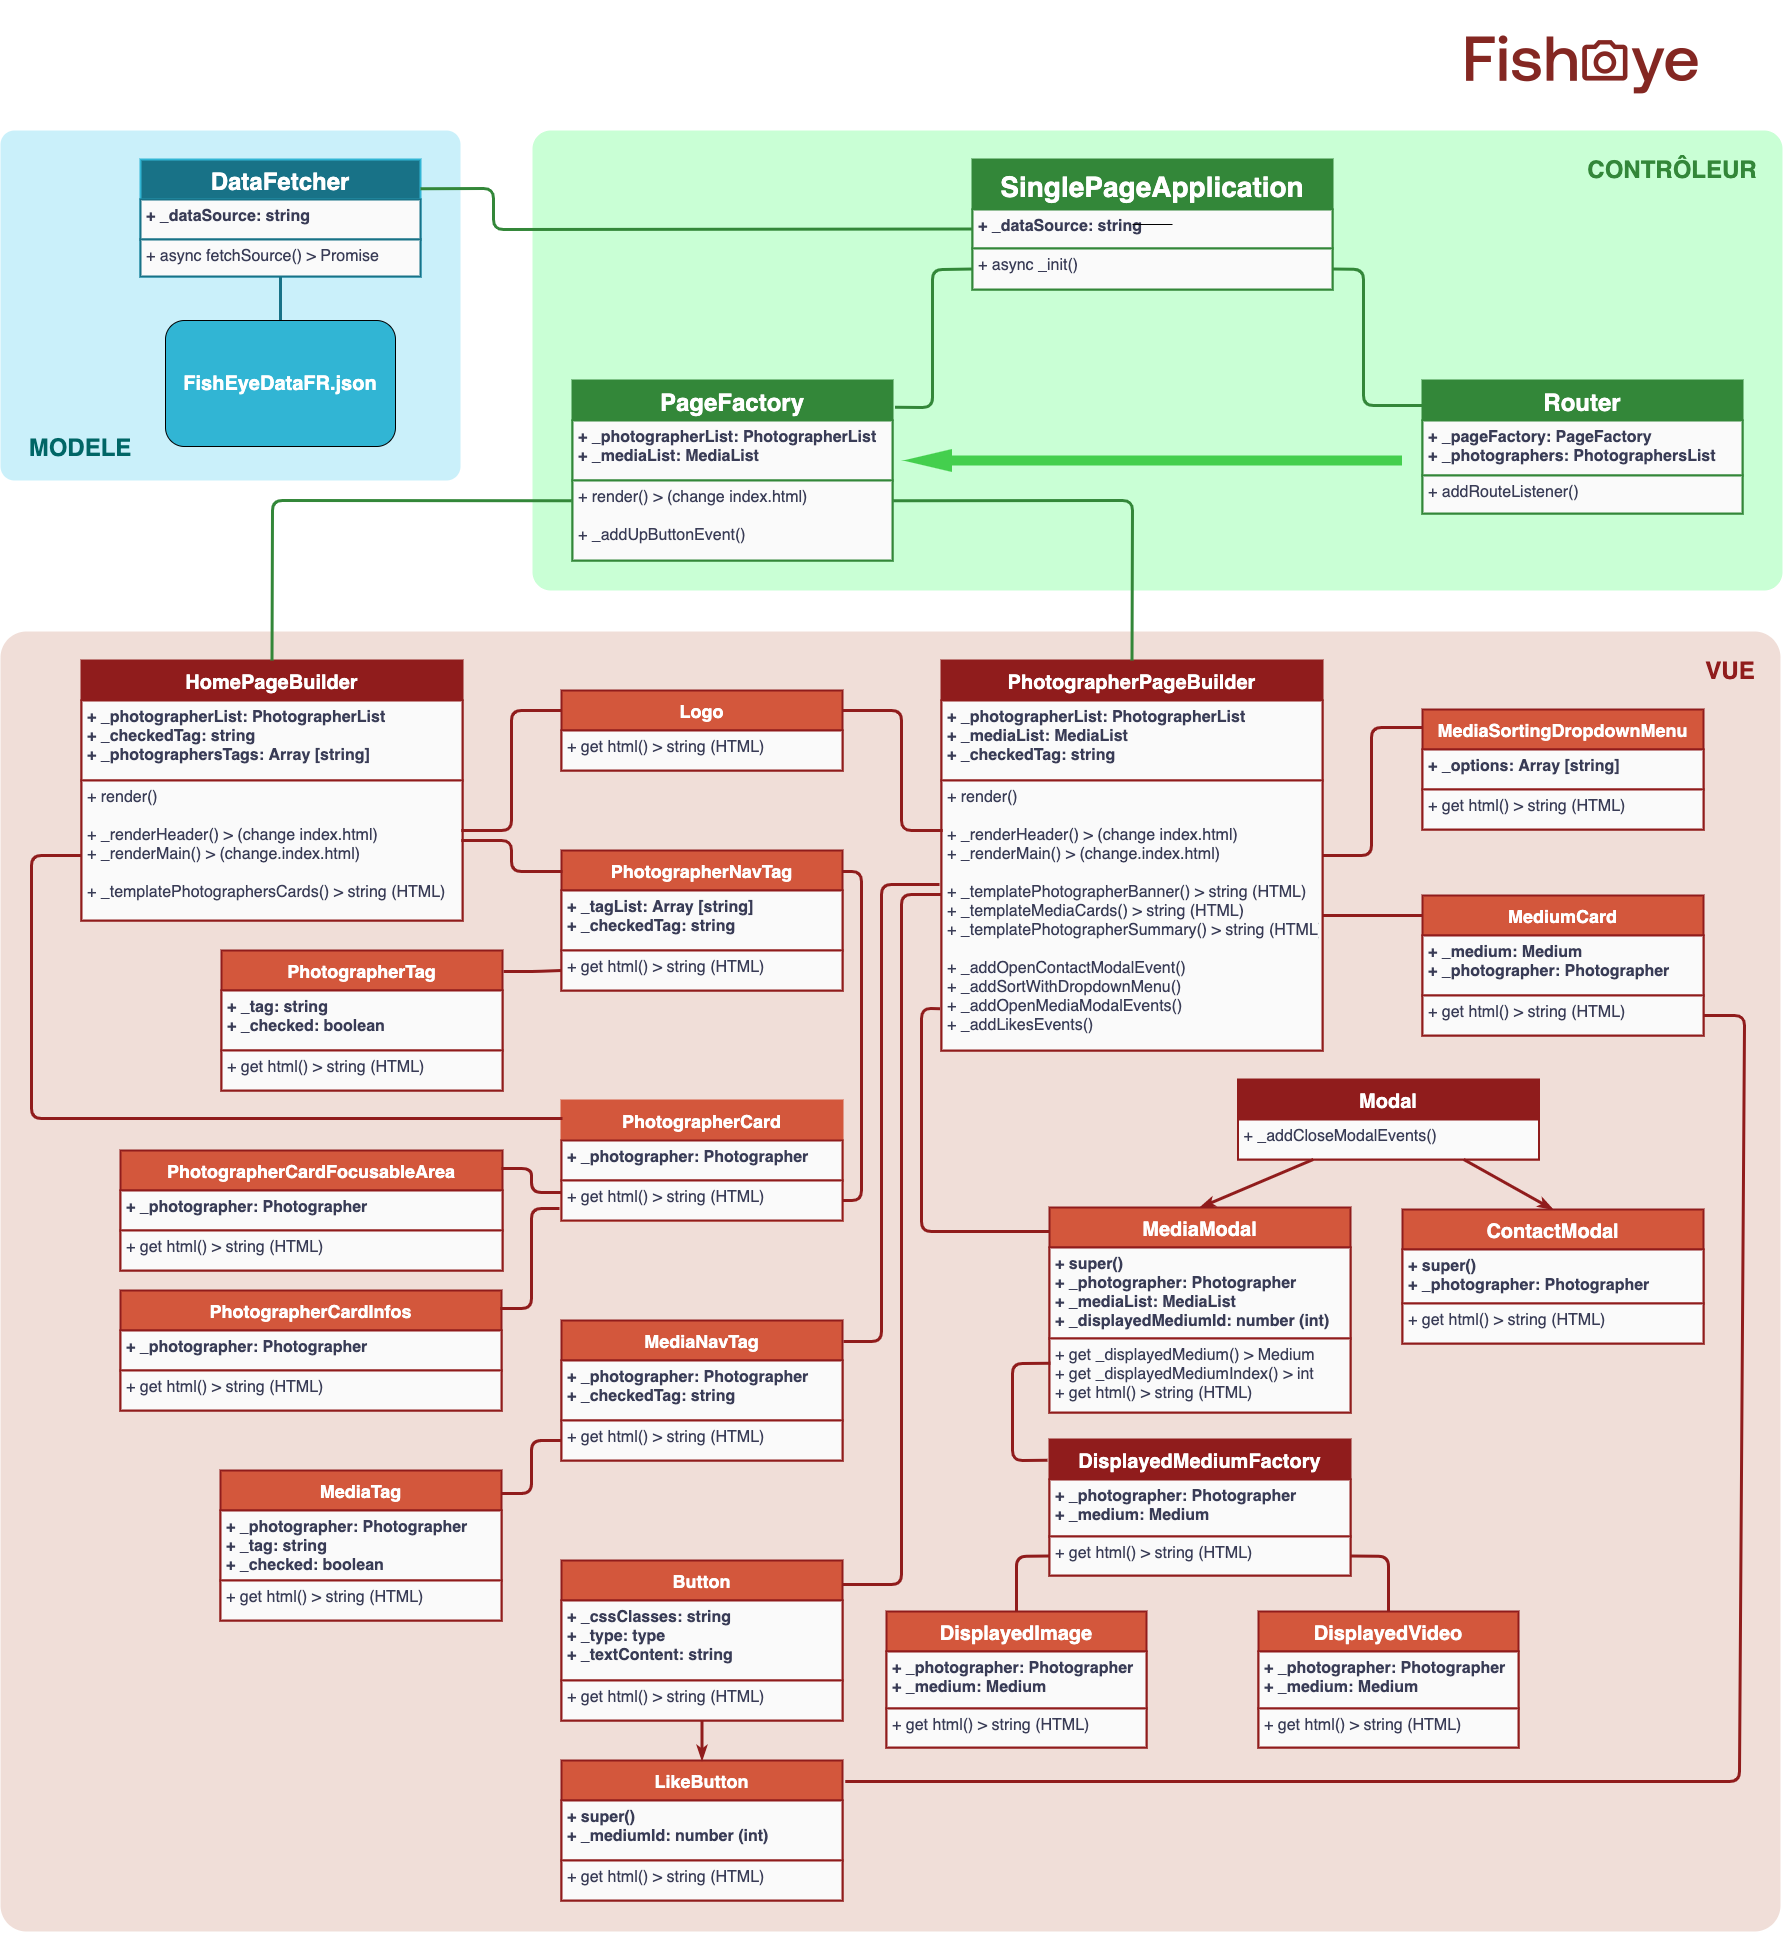
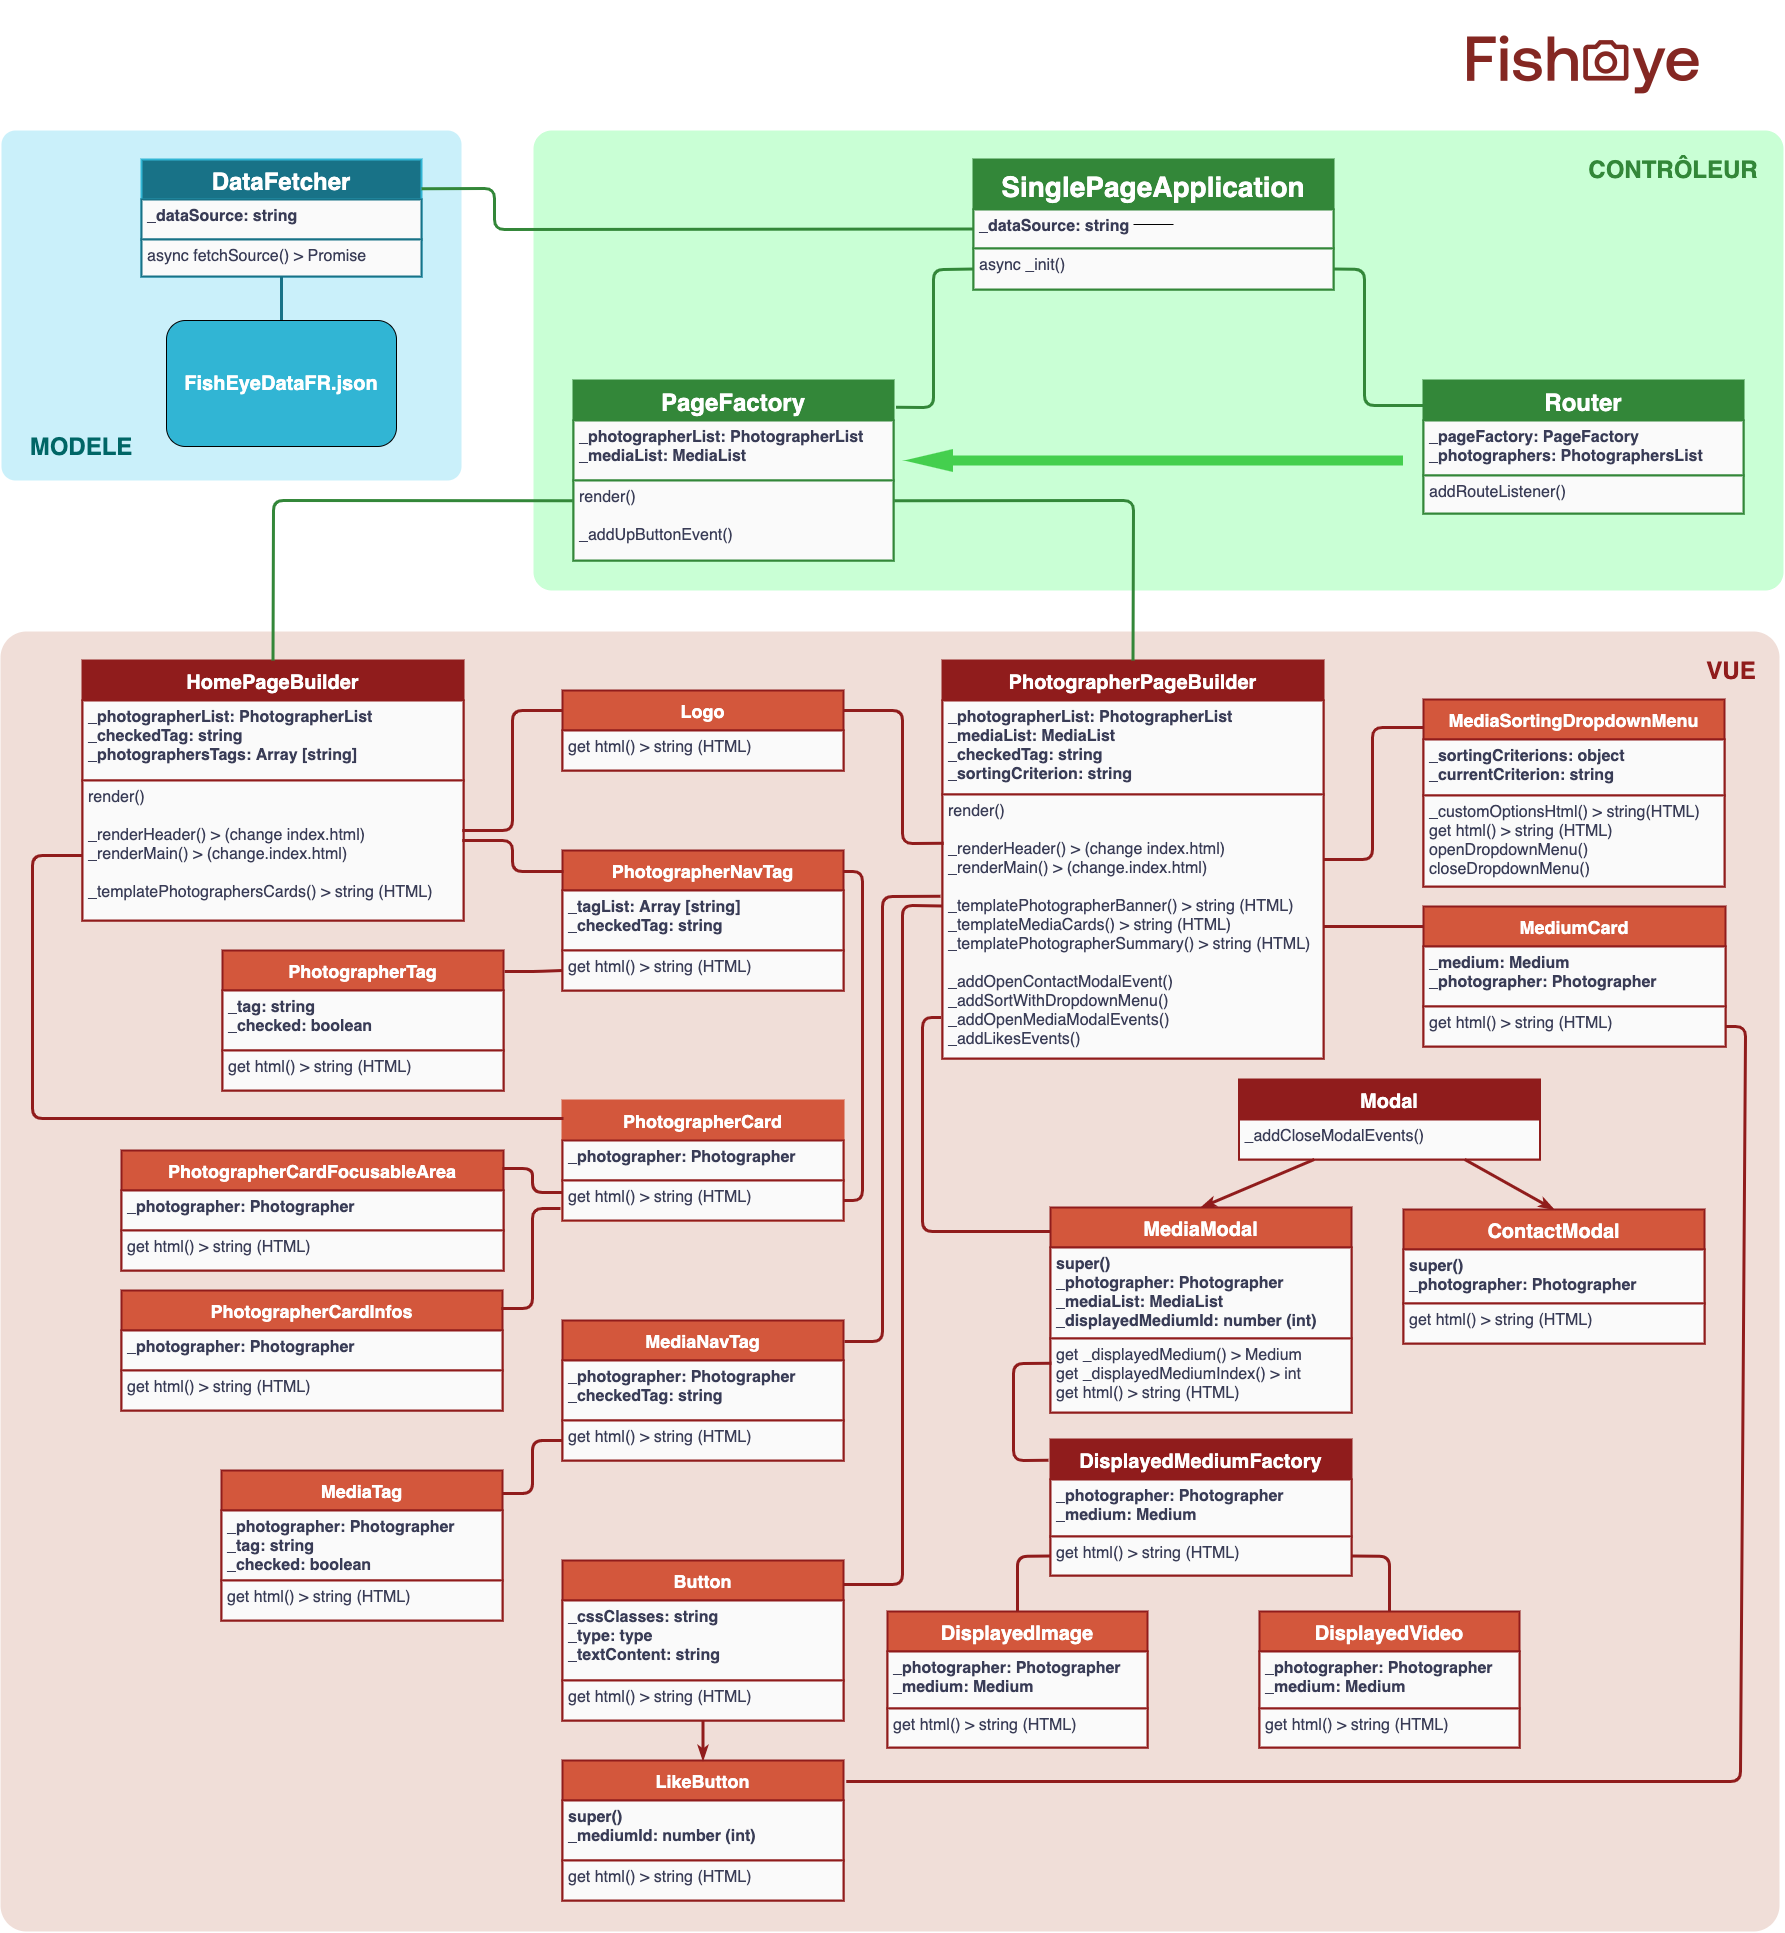
feature: sorting criterion is now maintained after clicking on a tag

diff --git a/js/pages/photographerPageBuilder.js b/js/pages/photographerPageBuilder.js
@@ -8,12 +8,13 @@ import { Logo } from "./components/logo.js";
 import { MediaTagsNav } from "./components/tagsNav.js";
 
 export class PhotographerPageBuilder {
-  constructor(photographer, mediaList, checkedTag) {
+  constructor(photographer, mediaList, checkedTag, sortingCriterion) {
     this._photographer = photographer;
     this._mediaList = mediaList;
     this._checkedTag = checkedTag;
+    this._sortingCriterion = sortingCriterion;
 
-    this._dropdownMenu = new MediaSortingDropdownMenu();
+    this._dropdownMenu = new MediaSortingDropdownMenu(sortingCriterion);
   }
 
   render() {
@@ -24,7 +25,7 @@ export class PhotographerPageBuilder {
     this._renderHeader();
     this._renderMain();
 
-    this._dropdownMenu.closeDropdownMenu("date");
+    this._dropdownMenu.closeDropdownMenu(this._sortingCriterion);
 
     this._addOpenContactModalEvent();
     this._addSortWithDropdownMenu();
@@ -50,7 +51,7 @@ export class PhotographerPageBuilder {
     htmlContent += this._dropdownMenu.html;
 
     htmlContent += `<div class="row-12" id="cards-container">
-                      ${this._templateMediaCards("date")}
+                      ${this._templateMediaCards(this._sortingCriterion)}
                     </div>`;
 
     htmlContent += this._templatePhotographerSummary();
@@ -66,8 +67,11 @@ export class PhotographerPageBuilder {
                      <p class="p-banner__tagline">
                        ${this._photographer.tagline}
                      </p>`;
-    let tagsNavHtml = new MediaTagsNav(this._photographer, this._checkedTag)
-      .html;
+    let tagsNavHtml = new MediaTagsNav(
+      this._photographer,
+      this._checkedTag,
+      this._sortingCriterion
+    ).html;
 
     let infosAndTagsNavHtml = `<div class="lg4 md4 sm4">
                                 ${infosHtml}
@@ -97,15 +101,15 @@ export class PhotographerPageBuilder {
             </section>`;
   }
 
-  _templateMediaCards(sortingCriterion) {
+  _templateMediaCards() {
     let photographerMedia = this._mediaList.filterByTagAndPhotographerId(
       this._checkedTag,
       this._photographer.id
     );
 
-    if (sortingCriterion == "date") photographerMedia.sortByDate();
-    if (sortingCriterion == "likes") photographerMedia.sortByLikes();
-    if (sortingCriterion == "title") photographerMedia.sortByTitle();
+    if (this._sortingCriterion == "date") photographerMedia.sortByDate();
+    if (this._sortingCriterion == "likes") photographerMedia.sortByLikes();
+    if (this._sortingCriterion == "title") photographerMedia.sortByTitle();
 
     let cardsHtml = "";
 
@@ -159,24 +163,23 @@ export class PhotographerPageBuilder {
     const dropdownMenu = document.querySelector(".p-dropdown--sr-only");
 
     dropdownMenu.onclick = () => {
-      const currentSortingCriterion = dropdownMenu.value;
-
       console.log(
-        `ON CLICK <select> | current sorting criterion = "${currentSortingCriterion}"`
+        `ON CLICK <select> | current sorting criterion = "${this._sortingCriterion}"`
       );
-      this._dropdownMenu.openDropdownMenu(currentSortingCriterion);
+      this._dropdownMenu.openDropdownMenu(this._sortingCriterion);
     };
 
     dropdownMenu.onchange = () => {
       const selectedSortingCriterion = dropdownMenu.value;
-      const cardsContainer = document.getElementById("cards-container");
 
-      cardsContainer.innerHTML = this._templateMediaCards(
+      const currentRoute = window.location.hash;
+
+      const newRoute = currentRoute.replace(
+        this._sortingCriterion,
         selectedSortingCriterion
       );
-      this._addOpenMediaModalEvents();
-      this._addLikesEvents();
-      this._dropdownMenu.closeDropdownMenu(selectedSortingCriterion);
+
+      window.location.hash = newRoute;
 
       console.log(
         `ON CHANGE <select> | selected sorting criterion = "${selectedSortingCriterion}"`

diff --git a/js/pages/components/dropdown.js b/js/pages/components/dropdown.js
@@ -7,19 +7,20 @@ const SORTING_CRITERIONS = {
 };
 
 export class MediaSortingDropdownMenu {
-  constructor() {
+  constructor(currentCriterion) {
     this._sortingCriterions = SORTING_CRITERIONS;
+    this._currentCriterion = currentCriterion;
   }
 
-  _customOptionsHtml(currentSortingCriterion) {
+  _customOptionsHtml() {
     let htmlContent = `<p class="p-dropdown__option" 
-                          data-criterion="${currentSortingCriterion}">
-                        ${this._sortingCriterions[currentSortingCriterion]}
+                          data-criterion="${this._currentCriterion}">
+                        ${this._sortingCriterions[this._currentCriterion]}
                       </p>`;
 
     Object.keys(this._sortingCriterions).forEach((criterion) => {
       htmlContent +=
-        criterion === currentSortingCriterion
+        criterion === this._currentCriterion
           ? ""
           : `<p class="p-dropdown__option" data-criterion="${criterion}">
               ${this._sortingCriterions[criterion]}
@@ -38,13 +39,15 @@ export class MediaSortingDropdownMenu {
                 <option value="title">Titre</option>
               </select>
               <div class="p-dropdown--custom">
-                ${this._customOptionsHtml("date")}
+                ${this._customOptionsHtml(this._currentCriterion)}
               </div>
             </div>`;
   }
 
   openDropdownMenu(selectedSortingCriterion) {
-    console.log(`OPEN dropdownMenu | selected sorting criterion = "${selectedSortingCriterion}"`);
+    console.log(
+      `OPEN dropdownMenu | selected sorting criterion = "${selectedSortingCriterion}"`
+    );
 
     const customSelect = document.querySelector(".p-dropdown--custom");
     customSelect.innerHTML = this._customOptionsHtml(selectedSortingCriterion);
@@ -65,7 +68,9 @@ export class MediaSortingDropdownMenu {
   }
 
   closeDropdownMenu(selectedSortingCriterion) {
-    console.log(`CLOSE dropdownMenu | selected sorting criterion = "${selectedSortingCriterion}"`);
+    console.log(
+      `CLOSE dropdownMenu | selected sorting criterion = "${selectedSortingCriterion}"`
+    );
 
     const customOptions = document.getElementsByClassName("p-dropdown__option");
 

diff --git a/js/pages/components/tagsNav.js b/js/pages/components/tagsNav.js
@@ -36,23 +36,22 @@ export class PhotographersTagsNav {
 }
 
 class MediaTag {
-  constructor(photographer, tag, checked) {
+  constructor(photographer, tag, checked, currentSortingCriterion) {
     this._photographer = photographer;
     this._tag = tag;
     this._checked = checked;
+    this._criterion = currentSortingCriterion;
   }
 
   get html() {
     return this._checked
       ? `<li class="c-tag c-tag--checked">
-        <a href="#photographer:${this._photographer.slug}#${this._tag}"
-           lang="en">
+        <a href="#photographer:${this._photographer.slug}#${this._tag}#${this._criterion}" lang="en">
           #${this._tag}
         </a>
         </li>`
       : `<li class="c-tag">
-          <a href="#photographer:${this._photographer.slug}#${this._tag}"
-             lang="en">
+          <a href="#photographer:${this._photographer.slug}#${this._tag}#${this._criterion}" lang="en">
             #${this._tag}
           </a>
         </li>`;
@@ -60,9 +59,10 @@ class MediaTag {
 }
 
 export class MediaTagsNav {
-  constructor(photographer, checkedTag) {
+  constructor(photographer, checkedTag, currentSortingCriterion) {
     this._photographer = photographer;
     this._checkedTag = checkedTag;
+    this._currentSortingCriterion = currentSortingCriterion;
   }
 
   get html() {
@@ -75,7 +75,8 @@ export class MediaTagsNav {
       htmlContent += new MediaTag(
         this._photographer,
         tag,
-        tag === this._checkedTag
+        tag === this._checkedTag,
+        this._currentSortingCriterion
       ).html;
     }
     htmlContent += "</ul></nav>";

diff --git a/js/pages/pageFactory.js b/js/pages/pageFactory.js
@@ -9,14 +9,23 @@ export class PageFactory {
     this._mediaList = mediaList;
   }
 
-  render(photographer, checkedTag) {
+  render(photographer, checkedTag, sortingCriterion) {
     if (!checkedTag) {
       window.scrollTo(0, 0);
     }
 
-    const pageToBuild = photographer
-      ? new PhotographerPageBuilder(photographer, this._mediaList, checkedTag)
-      : new HomePageBuilder(this._photographersList, checkedTag);
+    let pageToBuild;
+
+    if (photographer) {
+      pageToBuild = new PhotographerPageBuilder(
+        photographer,
+        this._mediaList,
+        checkedTag,
+        sortingCriterion
+      );
+    } else {
+      pageToBuild = new HomePageBuilder(this._photographersList, checkedTag);
+    }
 
     pageToBuild.render();
     this._addUpButtonEvents();

diff --git a/js/pages/router.js b/js/pages/router.js
@@ -9,7 +9,7 @@ export class Router {
   addRouteListener() {
     window.onhashchange = () => {
       const route = window.location.hash.slice(1);
-      let photographer, tag;
+      let photographer, tag, sortingCriterion;
 
       if (route.startsWith("photographer")) {
         const routeData = route.split(":")[1];
@@ -18,12 +18,14 @@ export class Router {
 
         photographer = this._photographers.findByName(photographerName);
         tag = routeParameters[1];
+        sortingCriterion = routeParameters[2];
       } else {
         photographer = "";
         tag = route;
+        sortingCriterion = "";
       }
 
-      this._pageFactory.render(photographer, tag);
+      this._pageFactory.render(photographer, tag, sortingCriterion);
     };
   }
 }

diff --git a/js/pages/components/cards.js b/js/pages/components/cards.js
@@ -9,7 +9,7 @@ class PhotographerCardFocusableArea {
   }
 
   get html() {
-    return `<a href="#photographer:${this._photographer.slug}#all">
+    return `<a href="#photographer:${this._photographer.slug}#all#date">
               <img 
                 src="img/photographers/${this._photographer.portrait}" 
                 alt="${this._photographer.name}" width="200" height="200" 
